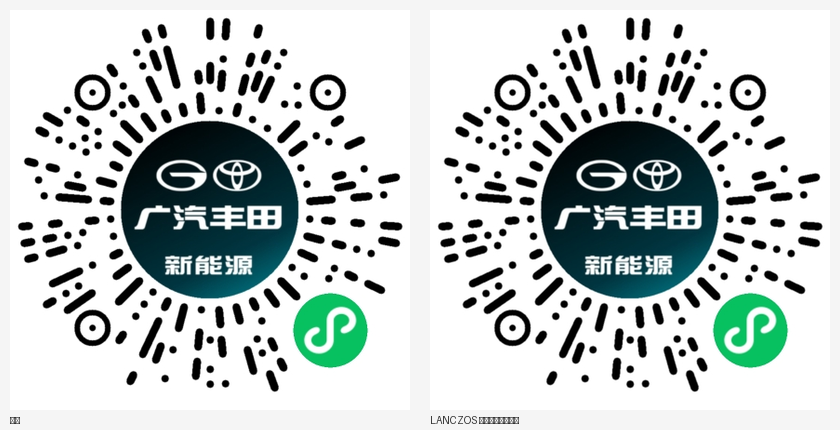
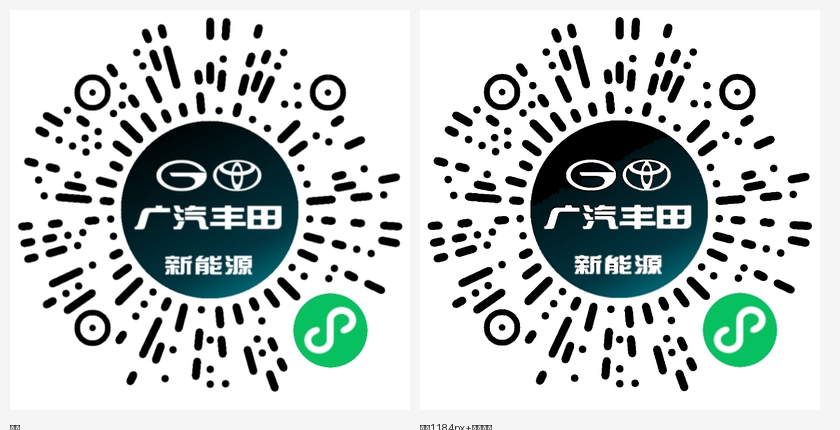
revert: 微信码放大回退黑白拉极（图标渐变错误）——恢复 Catmull-Rom 纯插值；保留 SVG image 尺寸修复

Changed region(s): [[0.4952, 0.0302, 0.9905, 0.907], [0.4952, 0.9674, 0.619, 1.0], [0.0, 0.9674, 0.031, 1.0]]

diff --git a/ui/ui.js b/ui/ui.js
@@ -122,7 +122,7 @@ document.getElementById("dl-svg").addEventListener("click", () => {
     c.getContext("2d").putImageData(new ImageData(current.origData, current.origW, current.origH), 0, 0);
     const dataUrl = c.toDataURL("image/png");
     const svg = `<svg xmlns="http://www.w3.org/2000/svg" width="${current.width}" height="${current.height}" viewBox="0 0 ${current.origW} ${current.origH}">` +
-      `<rect width="100%" height="100%" fill="#ffffff"/><image width="100%" height="100%" href="${dataUrl}"/></svg>`;
+      `<rect width="${current.origW}" height="${current.origH}" fill="#ffffff"/><image x="0" y="0" width="${current.origW}" height="${current.origH}" preserveAspectRatio="xMidYMid meet" href="${dataUrl}"/></svg>`;
     const blob = new Blob([svg], { type: "image/svg+xml" });
     const a = document.createElement("a");
     a.href = URL.createObjectURL(blob);
